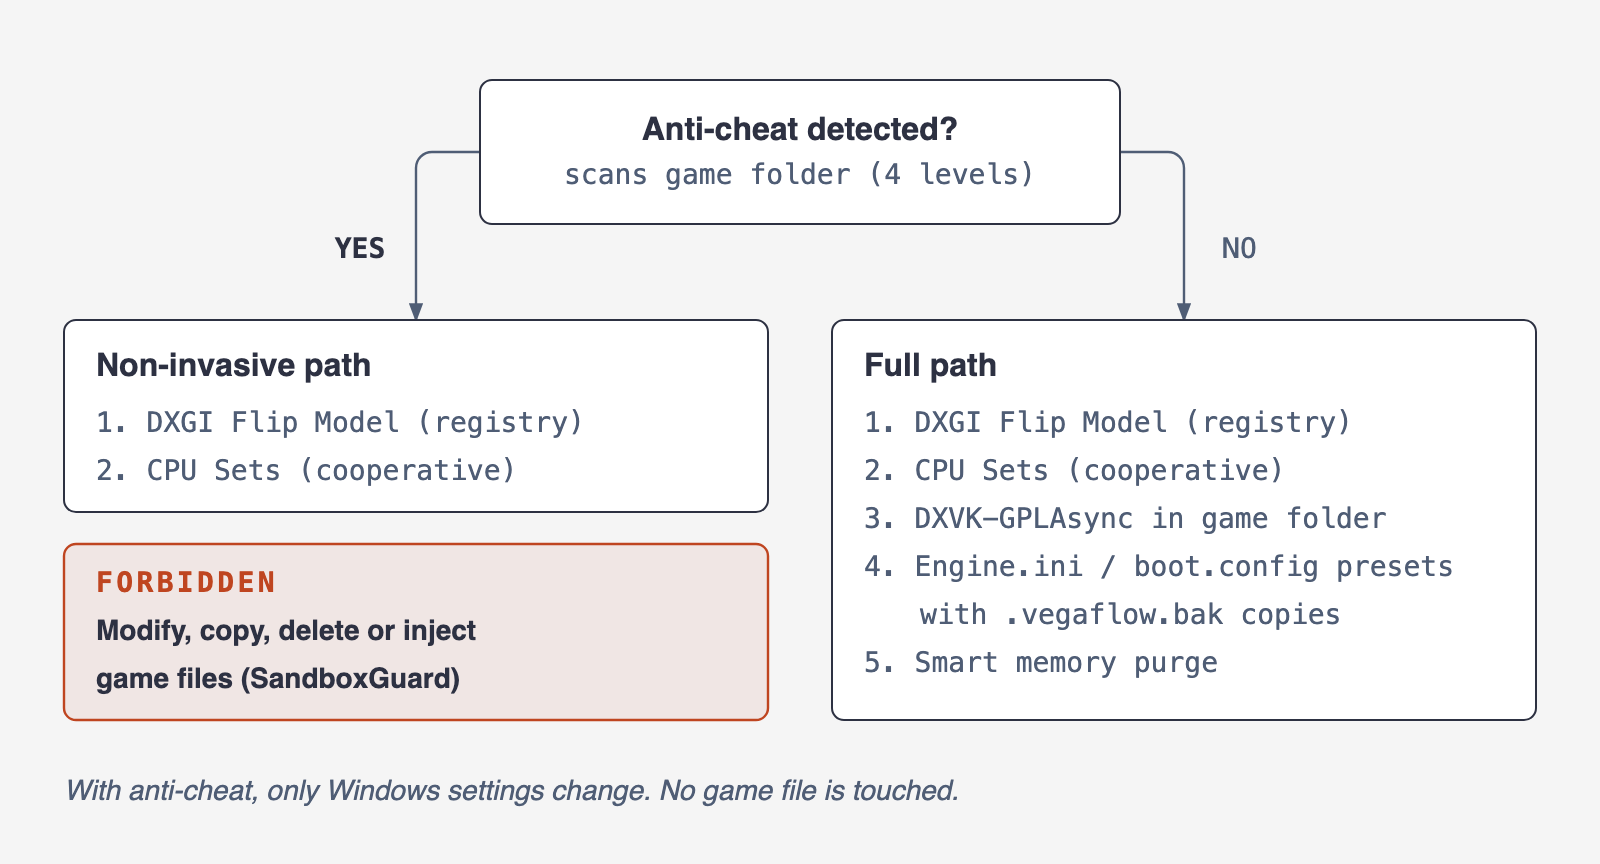
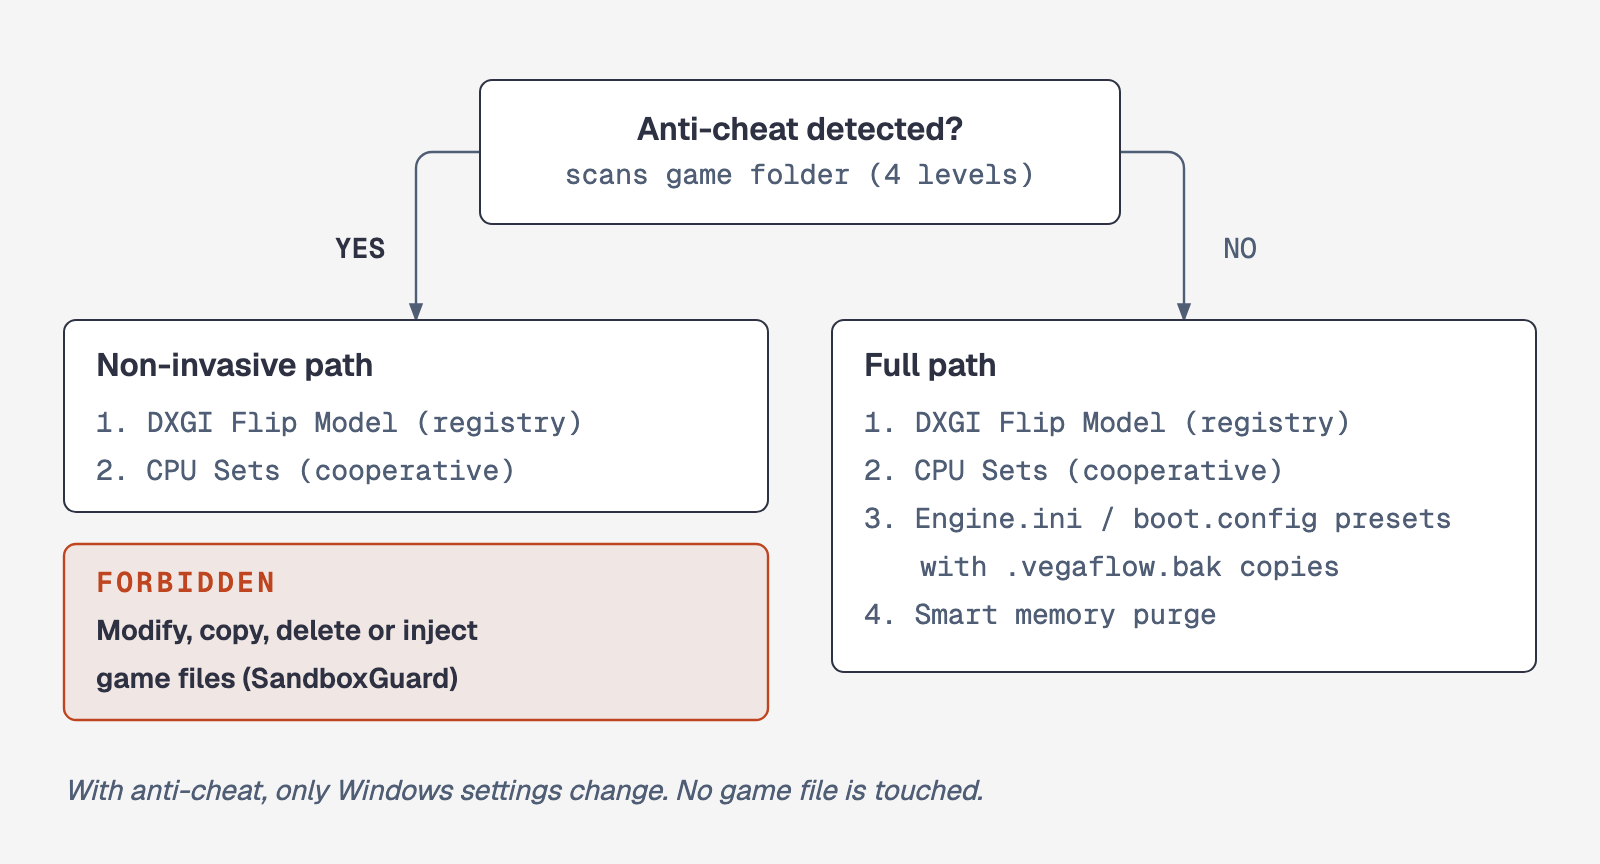
docs(img): anti-cheat matrix no longer lists the DXVK install step (retired in F2.6)

diff --git a/docs/guides/img/anticheat-safety-matrix.html b/docs/guides/img/anticheat-safety-matrix.html
@@ -60,14 +60,13 @@
       <text x="48" y="344" fill="#2d3142" font-size="14" font-weight="600" font-family="'Geist', sans-serif">game files (SandboxGuard)</text>
 
       <!-- Full path (NO) -->
-      <rect x="416" y="160" width="352" height="200" rx="6" fill="#ffffff" stroke="#2d3142" stroke-width="1"/>
+      <rect x="416" y="160" width="352" height="176" rx="6" fill="#ffffff" stroke="#2d3142" stroke-width="1"/>
       <text x="432" y="188" fill="#2d3142" font-size="16" font-weight="600" font-family="'Geist', sans-serif">Full path</text>
       <text x="432" y="216" fill="#4f5d75" font-size="14" font-family="'Geist Mono', monospace">1. DXGI Flip Model (registry)</text>
       <text x="432" y="240" fill="#4f5d75" font-size="14" font-family="'Geist Mono', monospace">2. CPU Sets (cooperative)</text>
-      <text x="432" y="264" fill="#4f5d75" font-size="14" font-family="'Geist Mono', monospace">3. DXVK-GPLAsync in game folder</text>
-      <text x="432" y="288" fill="#4f5d75" font-size="14" font-family="'Geist Mono', monospace">4. Engine.ini / boot.config presets</text>
-      <text x="460" y="312" fill="#4f5d75" font-size="14" font-family="'Geist Mono', monospace">with .vegaflow.bak copies</text>
-      <text x="432" y="336" fill="#4f5d75" font-size="14" font-family="'Geist Mono', monospace">5. Smart memory purge</text>
+      <text x="432" y="264" fill="#4f5d75" font-size="14" font-family="'Geist Mono', monospace">3. Engine.ini / boot.config presets</text>
+      <text x="460" y="288" fill="#4f5d75" font-size="14" font-family="'Geist Mono', monospace">with .vegaflow.bak copies</text>
+      <text x="432" y="312" fill="#4f5d75" font-size="14" font-family="'Geist Mono', monospace">4. Smart memory purge</text>
 
       <!-- Takeaway -->
       <text x="32" y="400" fill="#4f5d75" font-size="14" font-style="italic" font-family="'Geist', sans-serif">With anti-cheat, only Windows settings change. No game file is touched.</text>
